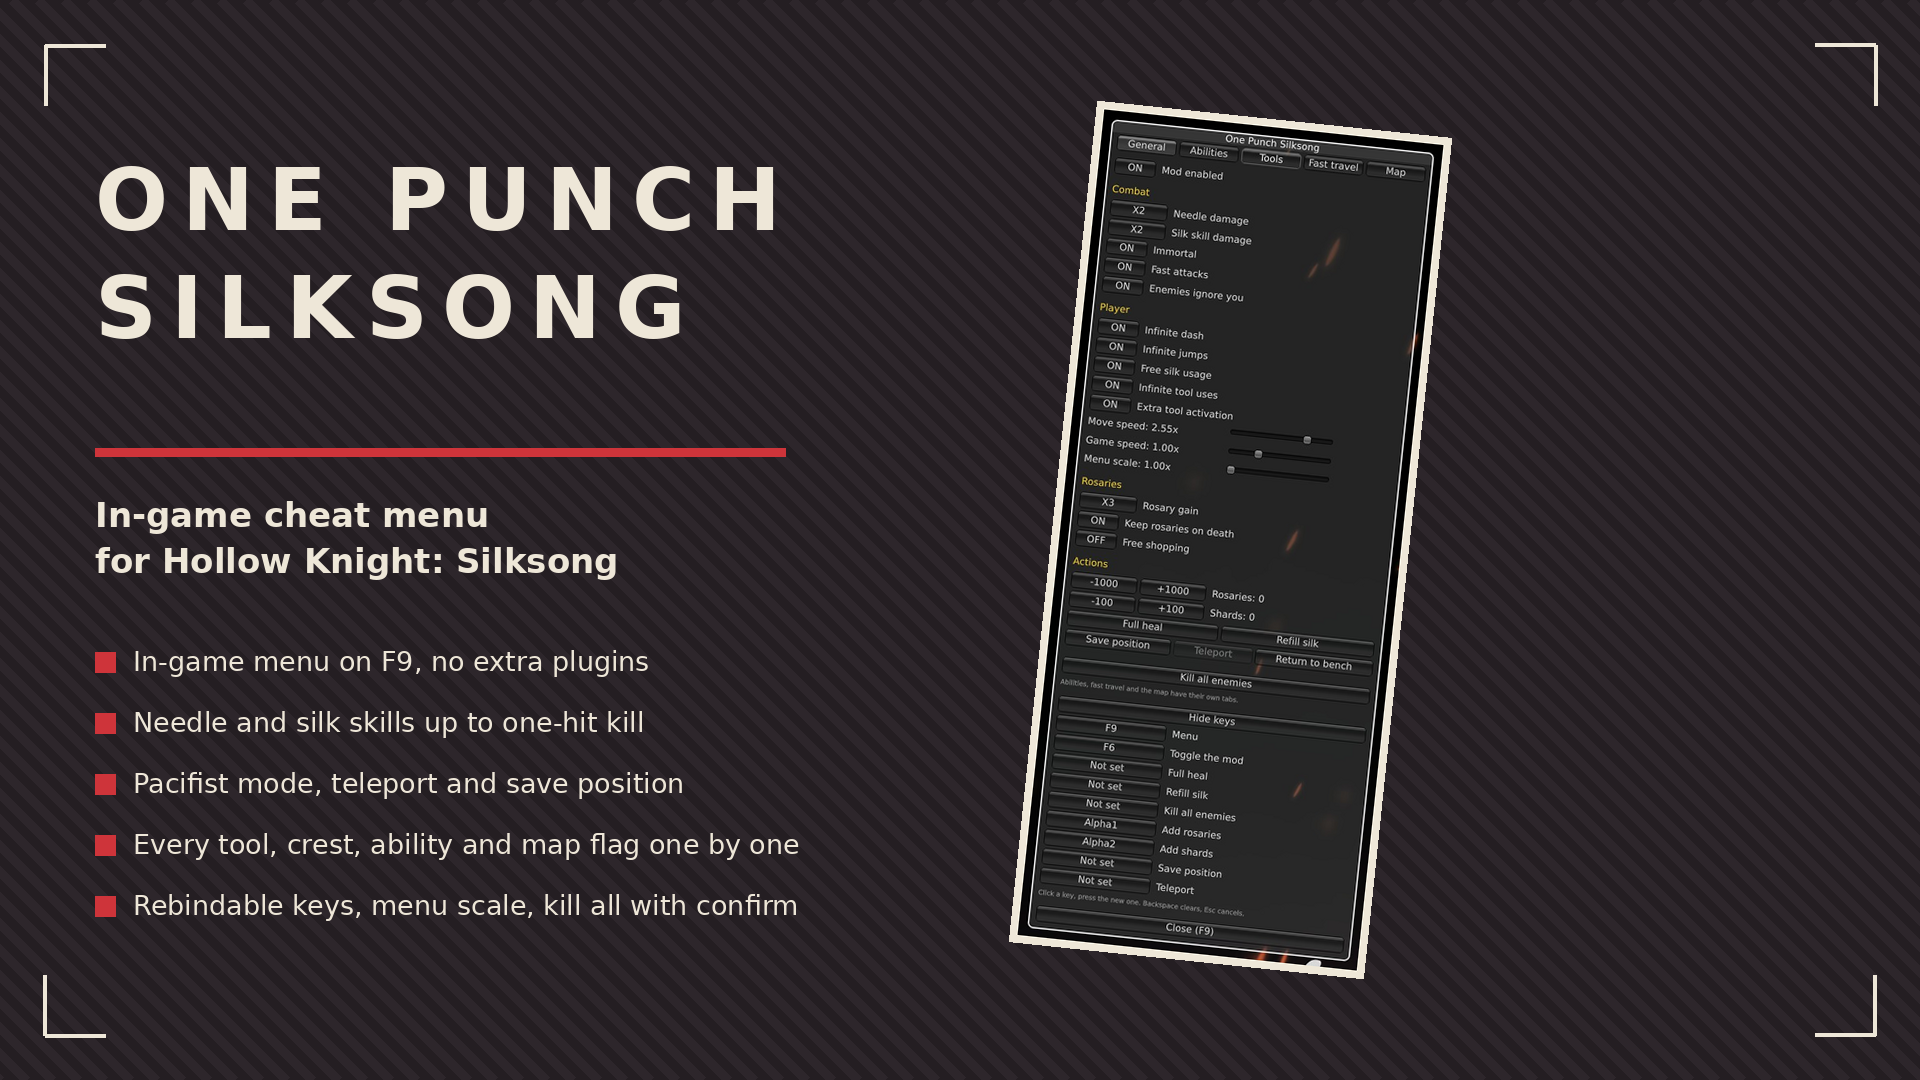
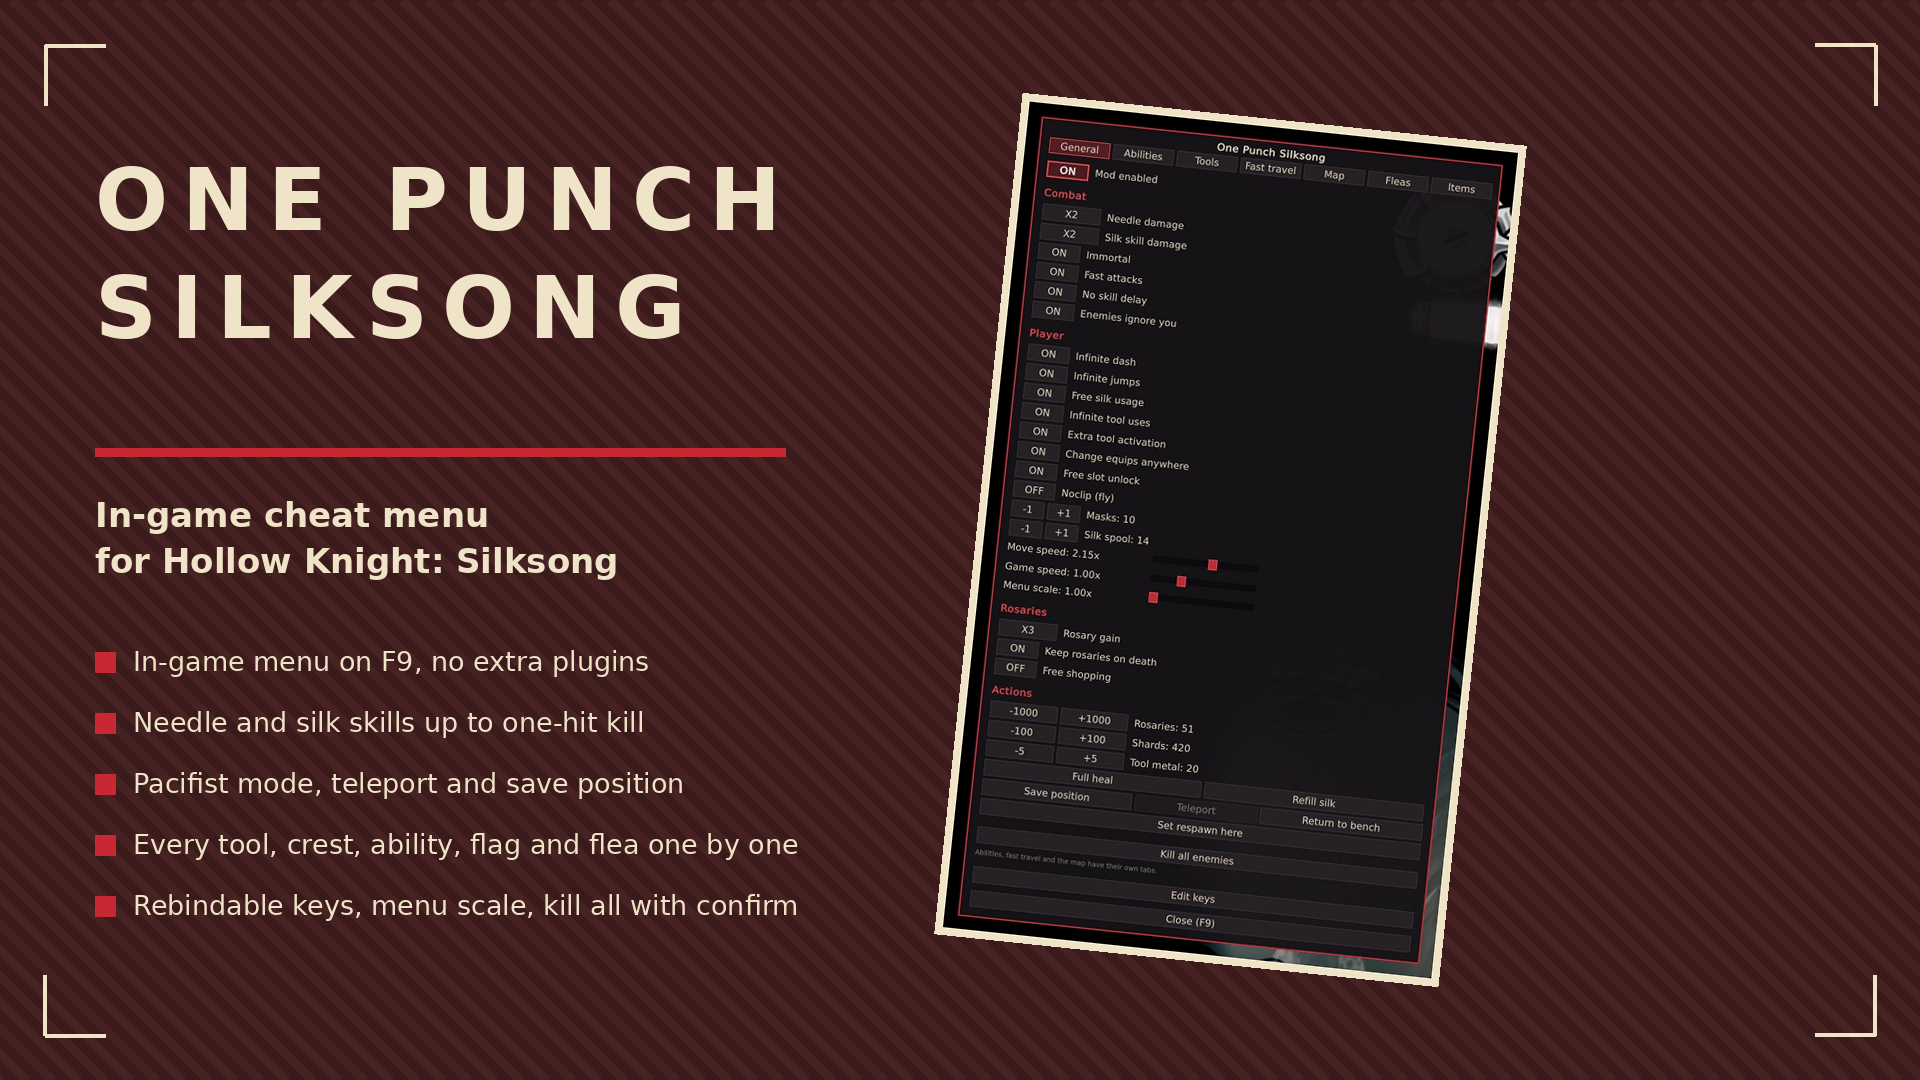
OnePunchSilksong 2.6.1
Includes 2.6.0 (Silksong skin, Items tab, masks and silk editors, noclip,
set respawn) and 2.6.1 (Items tab frame drop fix, search box).

diff --git a/Silksong/OnePunchSilksong/README.md b/Silksong/OnePunchSilksong/README.md
@@ -16,6 +16,8 @@ In-game cheat menu for Hollow Knight: Silksong. Press F9 (or L3+R3 on a gamepad)
 - Free shopping, give rosaries/shards/tool metal, rosary multipliers
 - Change crest, skills and tools anywhere; crest slots without a Memory Locket
 - Full heal, refill silk, kill all enemies
+- Noclip flight, set respawn anywhere, max masks and silk spool editors
+- Items tab: every collectable in the game, add or remove with live count, search by name
 - Tabs for abilities, fast travel, map and fleas, every entry with its own switch
 
 ## 🎮 Controls
@@ -31,11 +33,13 @@ In-game cheat menu for Hollow Knight: Silksong. Press F9 (or L3+R3 on a gamepad)
 Every key and the gamepad combo can be rebound in the menu itself ("Edit keys" in the General tab).
 
 ## 📸 Screenshots
-![menu](screenshots/01-menu.png)
-![abilities](screenshots/02-abilities.png)
-![tools](screenshots/03-tools.png)
-![fast travel](screenshots/04-fasttravel.png)
-![map](screenshots/05-map.png)
+![menu](screenshots/01-menu-v2.png)
+![abilities](screenshots/02-abilities-v2.png)
+![tools](screenshots/03-tools-v2.png)
+![fast travel](screenshots/04-fasttravel-v2.png)
+![map](screenshots/05-map-v2.png)
+![fleas](screenshots/06-fleas.png)
+![items](screenshots/07-items.png)
 
 ## 🌍 Translating
 Texts live in `I18n.cs`, one dictionary per language keyed by the English string. To add a
